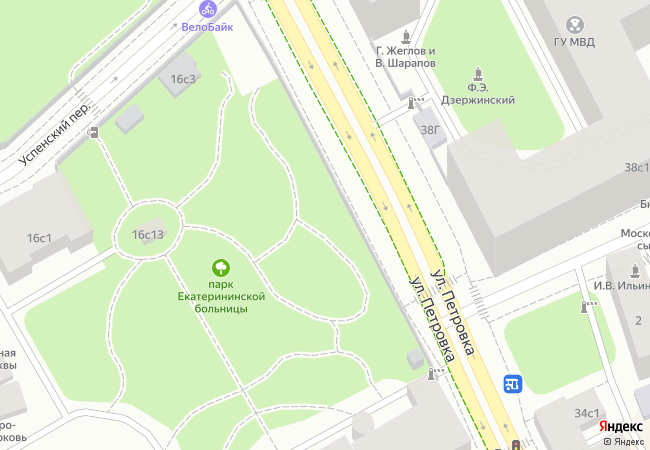
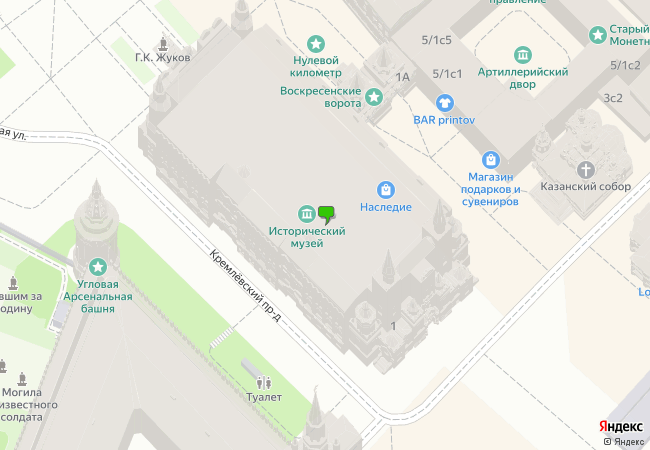
Поиск

diff --git a/run.py b/run.py
@@ -29,8 +29,10 @@ def init_main_window():
     update_map()
 
     def search_func(self, event):
-        print(search_field.get_text())
-        # тут будет функция поиска
+        search_coords = parse_requests.get_coords(search_field.get_text())
+        parse_requests.COORDS = [float(i) for i in search_coords.split(',')]
+        parse_requests.POINT = True
+        update_map()
 
     def change_mode(mode):
         parse_requests.MAP = mode
@@ -95,8 +97,10 @@ text_render = core.AutoTextRender()
 def init_start_window():
 
     def search_func(self, event):
-        print(search_field.get_text())
-        # тут будет функция поиска
+        search_coords = parse_requests.get_coords(search_field.get_text())
+        parse_requests.COORDS = [float(i) for i in search_coords.split(',')]
+        parse_requests.POINT = True
+        update_map()
 
     search_field = pygame_gui.elements.UITextEntryLine(pygame.Rect((165, 210), (230, 30)), start_ui_manager)
 

diff --git a/parse_requests.py b/parse_requests.py
@@ -12,6 +12,7 @@ SIZE = [650, 450]
 COORDS = [37.619015, 55.769393]
 SPN = 0.001
 MAP = 'map'
+POINT = False
 
 
 # main funcs
@@ -25,7 +26,7 @@ def error(response, request):
 
 def get_coords(name):
     params = {
-        'apikey': "40d1649f-0493-4b70-98ba-98533de7710",
+        'apikey': "40d1649f-0493-4b70-98ba-98533de7710b",
         'geocode': name,
         'format': 'json'
     }
@@ -45,6 +46,8 @@ def update_image():
         "spn": j([SPN] * 2),
         "l": MAP
     }
+    if POINT:
+        params.update({"pt": j(COORDS) + ',pmgns'})
     response = requests.get(STATIC_MAPS_URL, params=params)
     if response:
         with open('data/map.png', "wb") as file:
